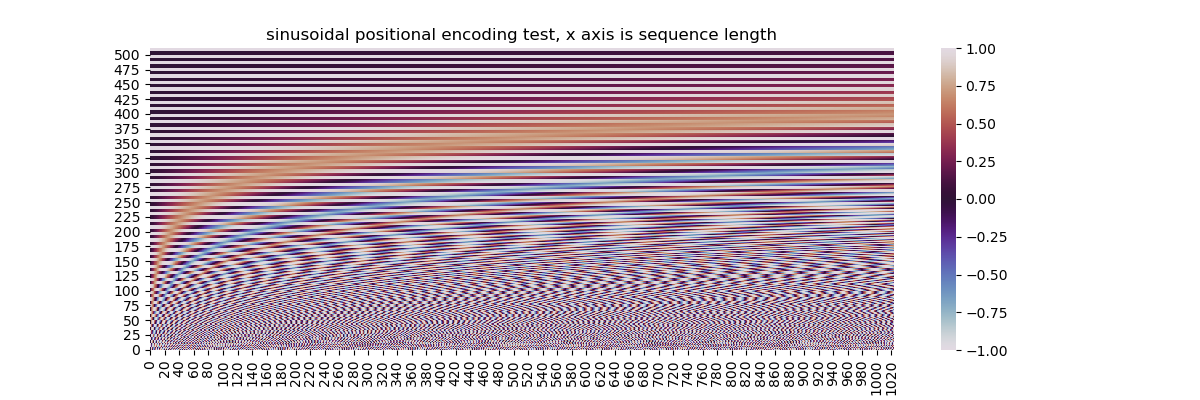
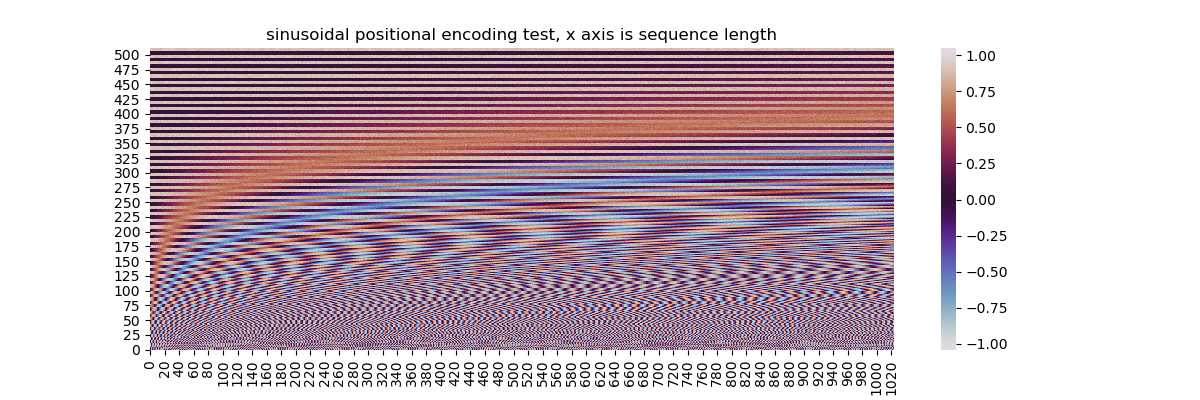
fix pos encoding and add learnable

diff --git a/mytransformers/models.py b/mytransformers/models.py
@@ -1,6 +1,8 @@
+import inspect
 import numpy as np
 import torch
 
+from mytransformers.modules import LearnedPositionalEncoding
 from mytransformers.modules import SinusoidalPositionalEncoding
 from mytransformers.layers import TransformerEncoderLayer
 from mytransformers.layers import TransformerDecoderLayer
@@ -27,6 +29,7 @@ class TransformerModel(torch.nn.Module):
                  attn_heads: int, 
                  attn_dropout: float, 
                  ffnn_dropout: float,
+                 pos_encoding: str="sinusoidal",
                  shared_vocab: bool=False,
                  attn_mask_val: float=-10e8, 
                  attn_q_bias: bool=False, 
@@ -35,10 +38,22 @@ class TransformerModel(torch.nn.Module):
                  ffnn_activation: str="relu", 
                  pre_ln: bool=False
                 ):
+        # save initial configuration
+        frame = inspect.currentframe()
+        keys, _, _, values = inspect.getargvalues(frame)
+        self.config = {}
+        for key in keys:
+            if key != 'self':
+                self.config[key] = values[key]
         super().__init__()
         
         # positional encoding
-        self.positional_encoding = SinusoidalPositionalEncoding()
+        if pos_encoding == "sinusoidal":
+            self.positional_encoding = SinusoidalPositionalEncoding()
+        elif pos_encoding == "learned":
+            self.positional_encoding = LearnedPositionalEncoding()
+        else:
+            raise ValueError("'pos_encoding' must be in ('sinusoidal', 'learned')!")
         
         # vocabulary embedding layer(s)
         self.shared_vocab = shared_vocab
@@ -104,7 +119,12 @@ class TransformerModel(torch.nn.Module):
             _decoder_layers.append(l)
         self.decoder_layers = torch.nn.ModuleList(_decoder_layers)
         
-
+    
+    def get_config(self):
+        
+        return self.config
+    
+    
     def forward(self, x, y_in, x_lens=None, y_lens=None):
 
         # encode inputs

diff --git a/mytransformers/modules.py b/mytransformers/modules.py
@@ -82,6 +82,24 @@ class PositionWiseFeedForward(torch.nn.Module):
         return x
 
 
+class LearnedPositionalEncoding(torch.nn.Module):
+    def __init__(self, seq_len, d_in):
+        super().__init__()
+        # learned embedding matrix for one sample
+        self.learned_embeddings = torch.nn.Parameter(torch.rand(seq_len, d_in).float())
+        torch.nn.init.xavier_normal_(self.learned_embeddings)
+
+    def forward(self, embeddings):
+        b, l, d = embeddings.shape
+        device = embeddings.device
+        
+        # create positional encoding
+        embeddings *= np.sqrt(embeddings.shape[-1])  # from "Attention..." 3.4
+        embeddings += self.learned_embeddings.unsqueeze(0).repeat(b, 1, 1)
+        
+        return embeddings
+    
+
 class SinusoidalPositionalEncoding(torch.nn.Module):
     def __init__(self):
         super().__init__()

diff --git a/README.md b/README.md
@@ -1,10 +1,6 @@
-# reproduction transformers
+# toy transformers
 
-me: can we have Transformers?
-
-mom: no, we have Transformers at home.
-
-Transformers at home:
+(WIP) toy implementations of transformer models, for my own self-enlightenment.
 
 ## about
 
